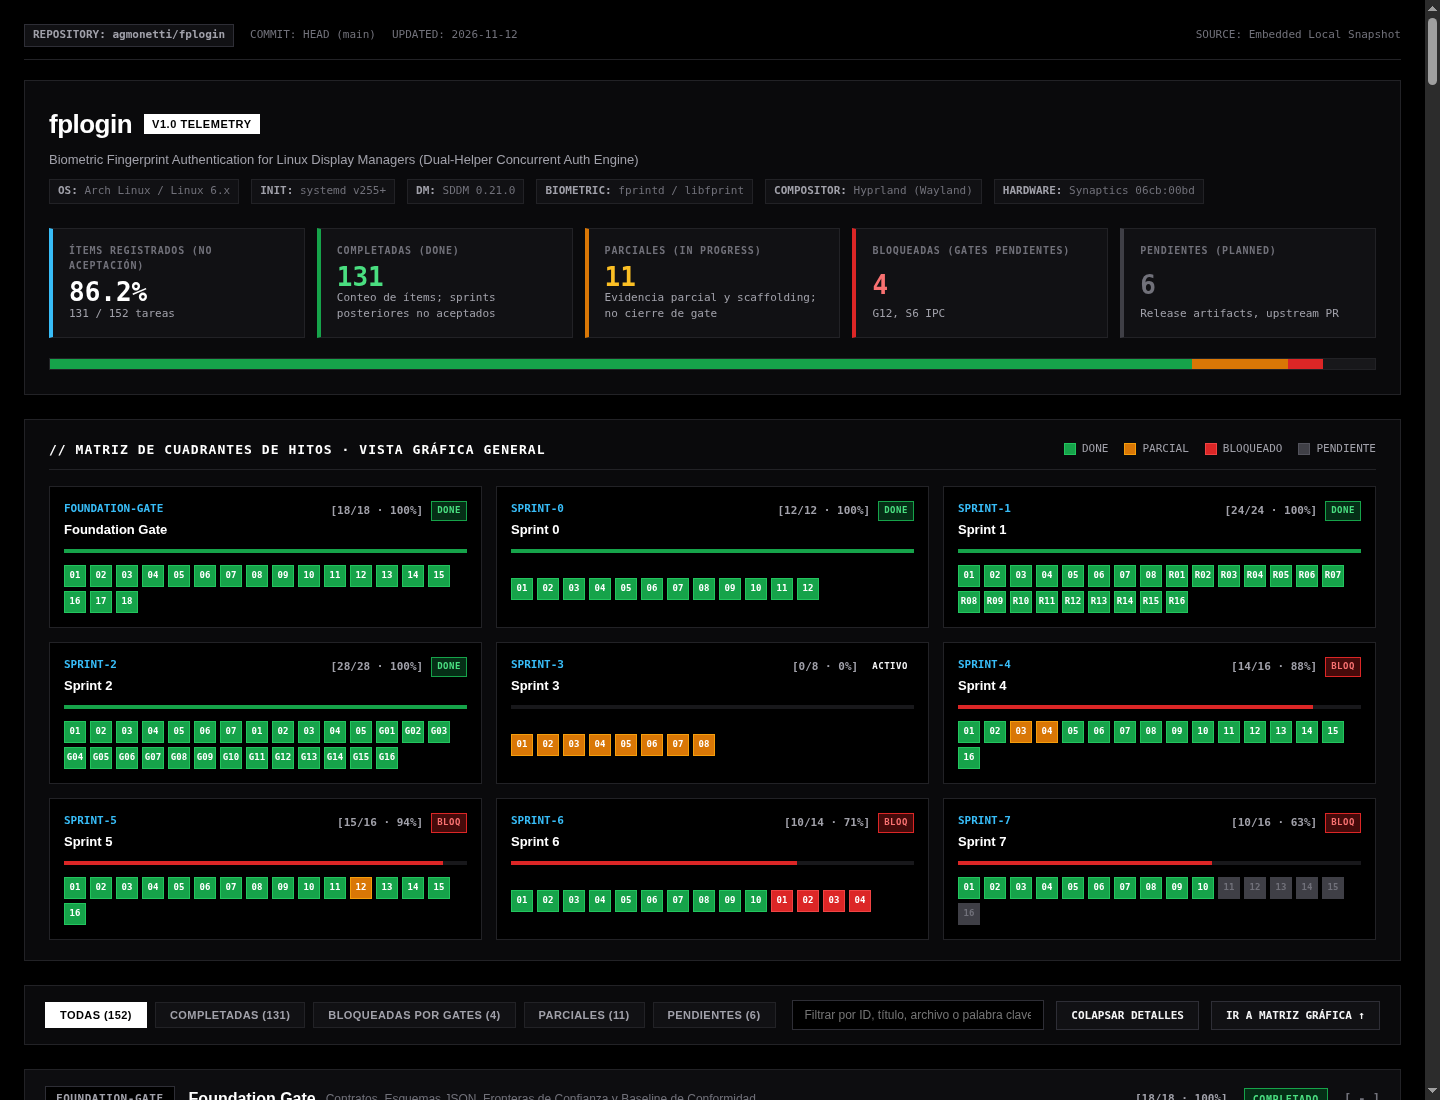
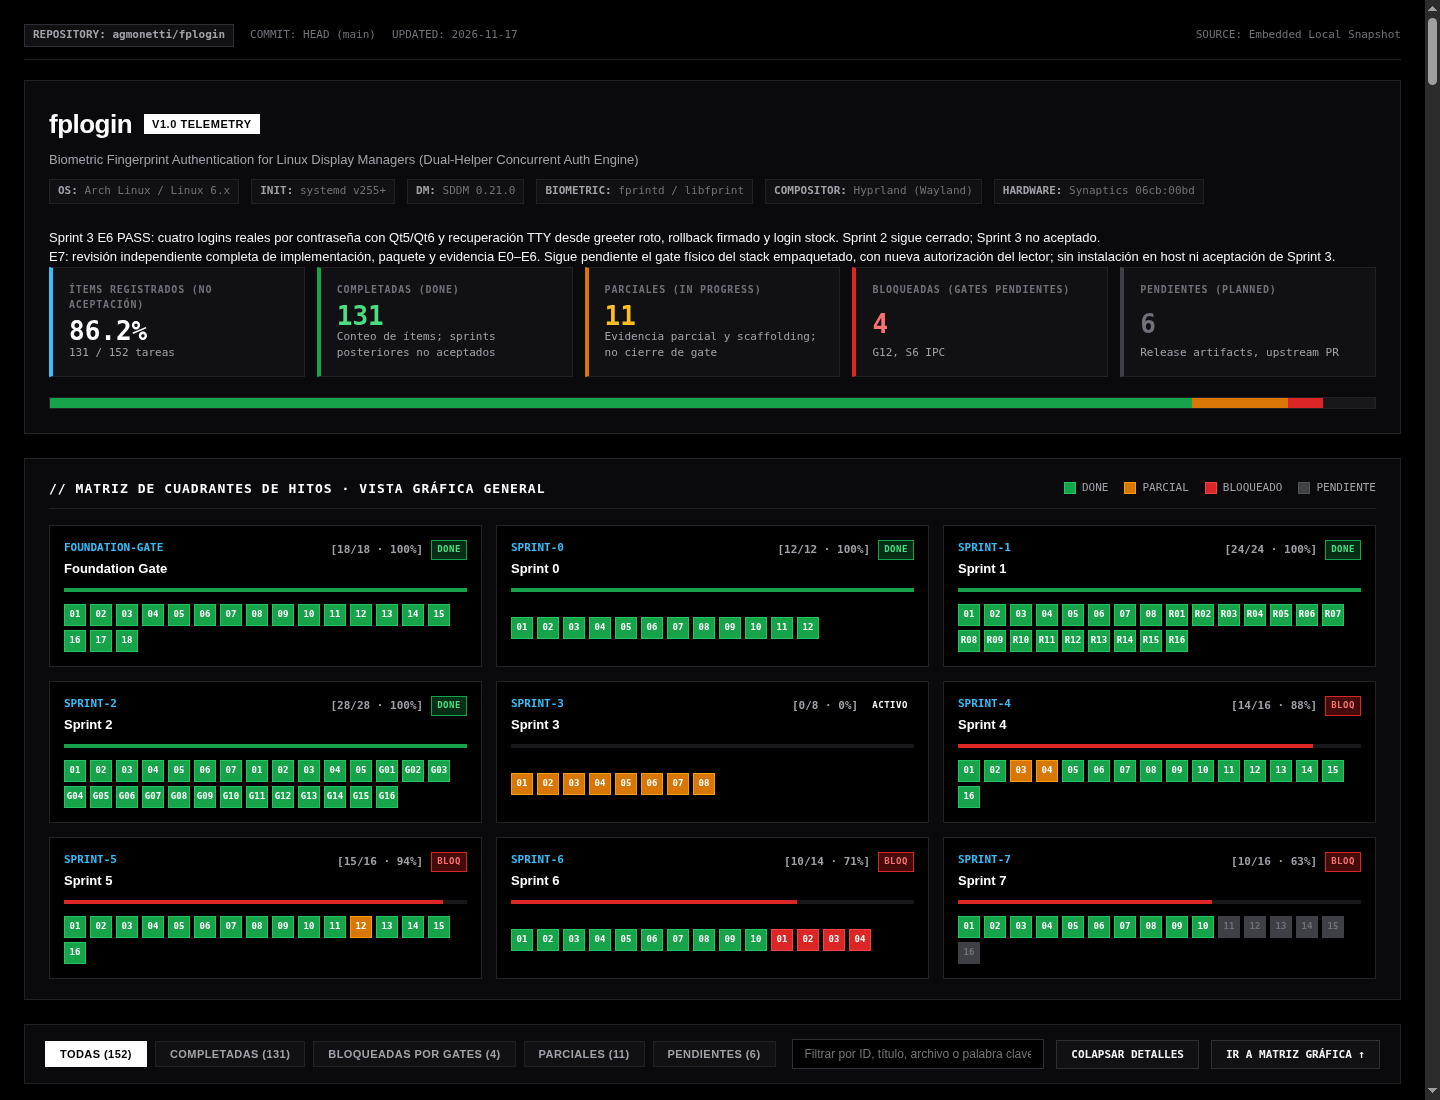
docs: record E6 retest pass and pending Sprint 3 gates

Changed region(s): [[0.0312, 0.4018, 0.9688, 1.0], [0.0312, 0.1855, 0.9688, 0.3709]]

diff --git a/README.md b/README.md
@@ -4,7 +4,7 @@ Biometric login for Linux, under active development. The v1 target is fingerprin
 
 [![fplogin Project Telemetry & Milestone Matrix](docs/assets/dashboard.png)](dashboard.html)
 
-The updated capture reflects the [2026-11-12 Sprint 2 acceptance and closure](docs/reviews/sprint-2-acceptance-2026-11-12.md): **Sprint 2 is Accepted and Closed; Sprint 3 transition is authorized**. All physical hardware test cases were manually executed and verified on reference hardware by the project owner; G12 multi-monitor is formally recorded as a known laboratory constraint for v1; the localized theme fix `28dd731` is accepted; and the [G16 secret audit](docs/reviews/sprint-2-g16-audit-2026-11-12.md) is approved with zero credentials leaked.
+The updated capture reflects [Sprint 3 E6 on 2026-11-17](docs/SPRINT_3_EXECUTION_PLAN.md#e6-retest--2026-11-17-pass-bounded-real-guest-scope): **four real Qt5/Qt6 password logins and broken-greeter/stock-password recovery PASS**. E7 final review and physical packaged-stack verification remain pending; Sprint 3 is unaccepted. [Sprint 2 remains accepted and closed](docs/reviews/sprint-2-acceptance-2026-11-12.md). All physical hardware test cases were manually executed and verified on reference hardware by the project owner; G12 multi-monitor is formally recorded as a known laboratory constraint for v1; the localized theme fix `28dd731` is accepted; and the [G16 secret audit](docs/reviews/sprint-2-g16-audit-2026-11-12.md) is approved with zero credentials leaked.
 
 ## The problem
 
